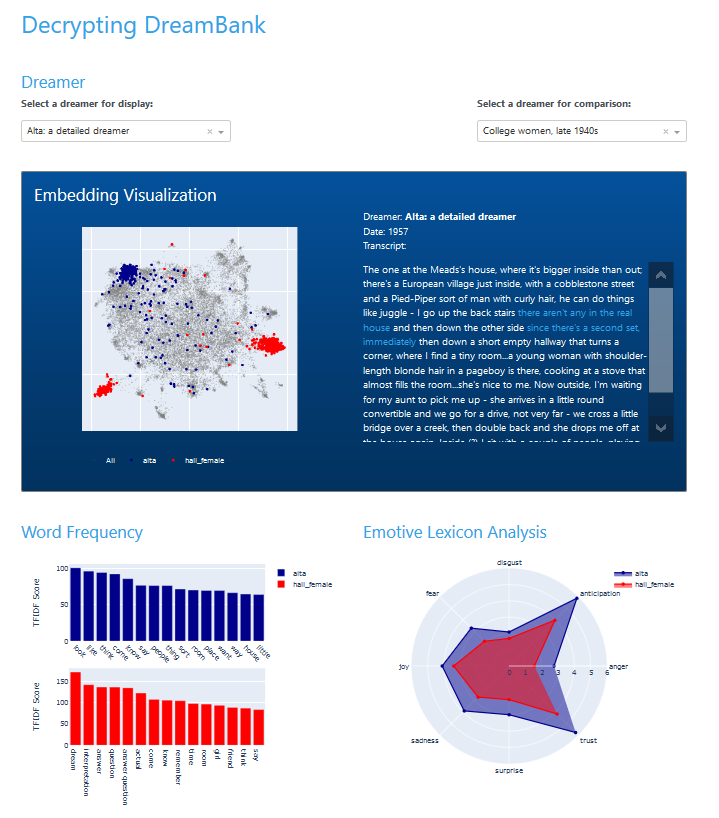
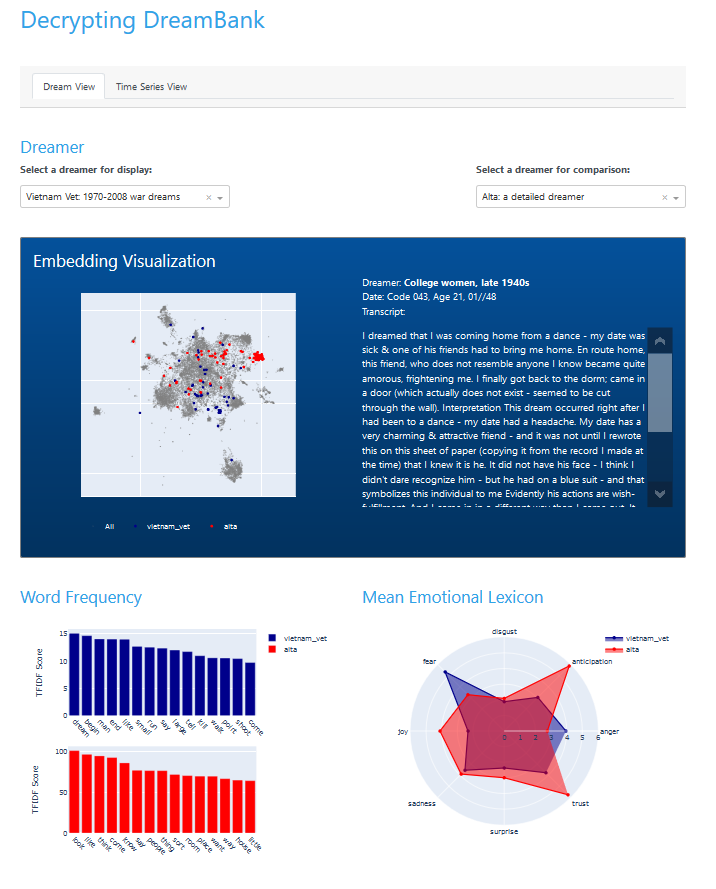
Update

diff --git a/callbacks.py b/callbacks.py
@@ -137,6 +137,36 @@ def get_app_callbacks(app, embedding_df):
 
 
     @app.callback(
+        [Output('main_dreamer_count', 'children'),
+         Output('compare_dreamer_count', 'children')],
+        [Input('dreamer-select', 'value'),
+         Input('dreamer-compare', 'value')]
+    )
+    def update_count(dreamer, compare):
+        """ AAA
+        """
+        embedding = embedding_df.copy()
+
+        if (dreamer == 'All'):
+            nb_count_dreamer = len(embedding)
+            text_dreamer = dcc.Markdown("**Dream Count**:  {}".format(nb_count_dreamer))
+            compare_dreamer = dcc.Markdown("")
+
+        elif (dreamer != 'All') and (compare == 'None'):
+            nb_count_dreamer = embedding[embedding['dreamer'] == dreamer].shape[0]
+            text_dreamer = dcc.Markdown("**Dream Count**:  {}".format(nb_count_dreamer))
+            compare_dreamer = dcc.Markdown("")
+
+        elif (dreamer != 'All') and (compare != 'None'):
+            nb_count_dreamer = embedding[embedding['dreamer'] == dreamer].shape[0]
+            nb_count_compare = embedding[embedding['dreamer'] == compare].shape[0]
+            text_dreamer = dcc.Markdown("**Dream Count**:  {}".format(nb_count_dreamer))
+            compare_dreamer = dcc.Markdown("**Dream Count**:  {}".format(nb_count_compare))
+
+        return text_dreamer, compare_dreamer
+
+
+    @app.callback(
         Output('displayed_tab', 'children'),
         [Input('container_tabs', 'active_tab')]
     )

diff --git a/figures.py b/figures.py
@@ -64,6 +64,7 @@ def get_tfidf_figure(cleaned_corpus_list, colors, names):
         y = tfidf_score.values
         temp_data = go.Bar(x=x, y=y, marker_color=color, name=name)
         fig.append_trace(temp_data, row=i, col=1)
+        fig.update_xaxes(tickangle=45, row=i, col=1)
         fig.update_yaxes(title_text="TFIDF Score", row=i, col=1)
 
     fig.update_layout(margin=dict(t=30), paper_bgcolor='rgba(0,0,0,0)', clickmode='event+select',

diff --git a/layouts.py b/layouts.py
@@ -49,7 +49,15 @@ embedding_view = html.Div([
         dbc.Col(dreamer_dropdown, width=4),
         dbc.Col(dreamer_dropdown_comparison, width=4),
     ], justify='between'),
+
     html.Br(), html.Br(),
+
+    dbc.Row([
+        dbc.Col(id='main_dreamer_count', width=4),
+        dbc.Col(id='compare_dreamer_count', width=4)
+    ], justify='between'),
+
+    html.Br(),
 
 
     # Upper Figures
